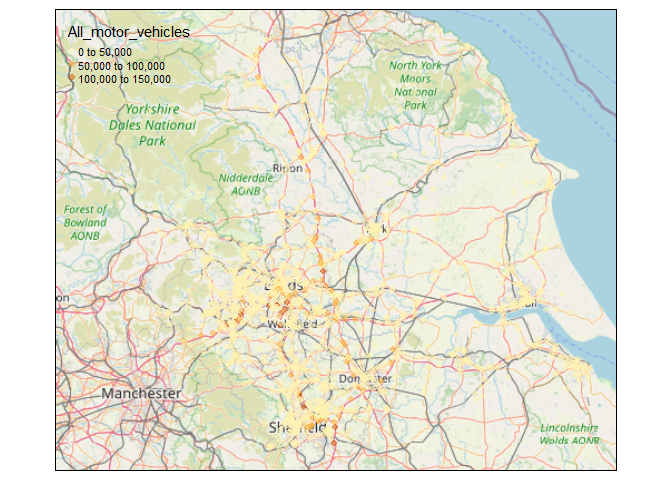
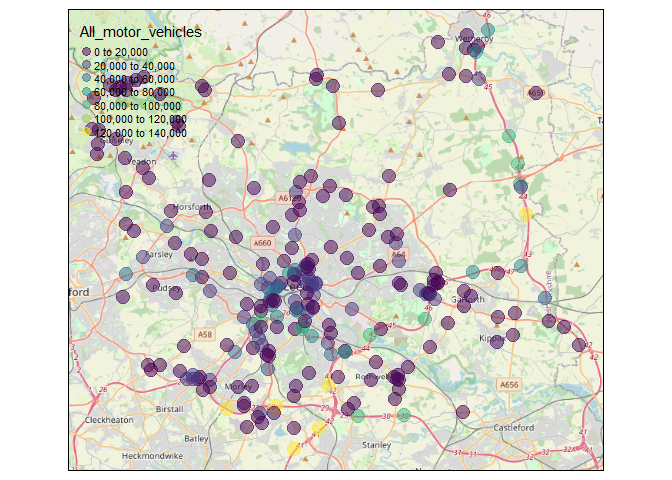
update

diff --git a/README.md b/README.md
@@ -43,16 +43,31 @@ per_year = Recent_data |>
 ```
 
 ![](README_files/figure-gfm/unnamed-chunk-6-1.png)<!-- --> \## Last
-year’s data
+year’s data for Leeds
 
 ``` r
 count_points=Recent_data |>
-  filter(Year==2021,Region_id==8) |>
+  filter(Year==2021,Local_authority_id==63) |>
   st_as_sf(coords=c("Longitude","Latitude"),crs="wgs84")
 
 OSM_base = read_osm(count_points, ext=1.1)
 tm_shape(OSM_base)+tm_rgb()+
-tm_shape(count_points)+tm_dots(col="All_motor_vehicles",alpha=0.5,size = 0.15)
+tm_shape(count_points)+tm_dots(col="All_motor_vehicles",alpha=0.5,size = 1,palette = "viridis")
 ```
 
 ![](README_files/figure-gfm/unnamed-chunk-7-1.png)<!-- -->
+
+``` r
+count_points |> ggplot(aes(factor(Road_type),y=All_motor_vehicles))+geom_jitter(alpha=0.3)+geom_boxplot(outlier.alpha = 0)
+```
+
+![](README_files/figure-gfm/unnamed-chunk-8-1.png)<!-- -->
+
+# To include in the analysis:
+
+- get OSM network
+- pair counts to links
+- analyse width/other characteristic vs flow
+- get webTRIS data for major
+- compare estimated AADT
+- speed flow curves…
